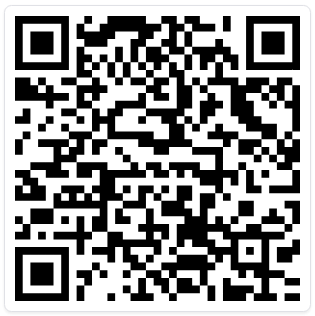
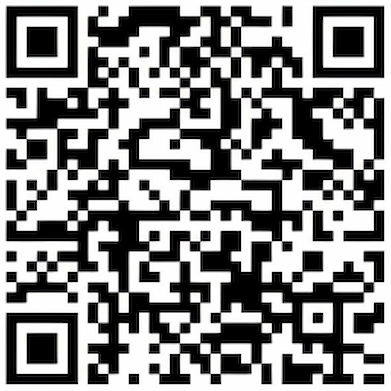
feat: add landing page for grad show

diff --git a/index.html b/index.html
@@ -1,0 +1,278 @@
+<!--
+ Copyright 2026 Yicong Lin
+ 
+ Licensed under the Apache License, Version 2.0 (the "License");
+ you may not use this file except in compliance with the License.
+ You may obtain a copy of the License at
+ 
+     https://www.apache.org/licenses/LICENSE-2.0
+ 
+ Unless required by applicable law or agreed to in writing, software
+ distributed under the License is distributed on an "AS IS" BASIS,
+ WITHOUT WARRANTIES OR CONDITIONS OF ANY KIND, either express or implied.
+ See the License for the specific language governing permissions and
+ limitations under the License.
+-->
+
+<!DOCTYPE html>
+<html lang="en">
+
+<head>
+    <meta charset="UTF-8">
+    <meta name="viewport" content="width=device-width, initial-scale=1.0">
+    <title>AilyCart | Ethan Lin - NIC Grad Show 2026</title>
+    <script src="https://cdn.tailwindcss.com"></script>
+    <link href="https://fonts.googleapis.com/css2?family=Atkinson+Hyperlegible:wght@400;700&display=swap"
+        rel="stylesheet">
+    <script>
+        tailwind.config = {
+            theme: {
+                extend: {
+                    colors: {
+                        'aily-bg': '#FFFFFF',
+                        'aily-primary': '#1A1A1A',
+                        'aily-secondary': '#595959',
+                        'aily-blue': '#1565C0',
+                        'aily-red': '#D32F2F',
+                        'aily-green': '#2E7D32',
+                    },
+                    fontSize: {
+                        'aily-h1': '2rem',
+                        'aily-h2': '1.5rem',
+                        'aily-action': '1.375rem',
+                        'aily-body-lg': '1.25rem',
+                        'aily-body-sm': '1.125rem',
+                    },
+                    fontFamily: {
+                        'atkinson': ['Atkinson Hyperlegible', 'sans-serif'],
+                    },
+                    letterSpacing: {
+                        'tightest': '0.03em',
+                    }
+                }
+            }
+        }
+    </script>
+    <style>
+        body {
+            font-family: 'Atkinson Hyperlegible', sans-serif;
+            font-size: 1.25rem;
+        }
+
+        .grad-glow {
+            box-shadow: 0 0 50px -10px rgba(21, 101, 192, 0.3);
+        }
+
+        .breath-led {
+            animation: pulse-led 2s cubic-bezier(0.4, 0, 0.6, 1) infinite;
+        }
+
+        @keyframes pulse-led {
+
+            0%,
+            100% {
+                opacity: 1;
+                transform: scale(1);
+            }
+
+            50% {
+                opacity: .7;
+                transform: scale(0.95);
+            }
+        }
+    </style>
+</head>
+
+<body class="bg-aily-bg text-aily-primary leading-relaxed">
+
+    <nav class="max-w-7xl mx-auto px-6 py-6 flex justify-between items-center border-b-2 border-slate-50">
+        <div class="flex items-center gap-4">
+            <img src="AilyCartApp/assets/images/logo-notext.png" alt="AilyCart" class="w-12 h-12">
+            <div>
+                <span class="text-aily-h2 font-bold tracking-tightest text-aily-blue">AilyCart</span>
+                <p class="text-[10px] font-black text-aily-secondary uppercase tracking-[0.3em]">NIC Graduate Showcase
+                    2026</p>
+            </div>
+        </div>
+        <div class="flex gap-4">
+            <a href="https://github.com/Yicong-Lin-213/AilyCart"
+                class="bg-aily-primary text-white px-4 py-2 rounded-xl text-sm font-bold hover:bg-aily-blue transition-all">GitHub</a>
+            <a href="https://www.linkedin.com/in/yicong-lin"
+                class="bg-slate-100 text-aily-primary px-4 py-2 rounded-xl text-sm font-bold hover:bg-slate-200 transition-all">LinkedIn</a>
+        </div>
+    </nav>
+
+    <header class="max-w-7xl mx-auto px-6 pt-12 pb-20 grid lg:grid-cols-2 gap-12 items-center">
+        <div class="flex flex-col items-center">
+            <div
+                class="relative z-10 w-full max-w-[360px] border-[4px] border-aily-blue border-slate-50 rounded-[1.2rem] overflow-hidden grad-glow bg-white flex flex-col items-center justify-center">
+
+                <video autoplay muted loop playsinline class="w-full h-auto">
+                    <!-- <source src="ailycart-usage.mp4" type="video/mp4"> -->
+                </video>
+
+                <div class="flex-grow flex items-center justify-center p-6 w-full">
+                    <p class="text-aily-blue text-center font-bold">
+                        Demo Video Under Construction...
+                    </p>
+                </div>
+
+            </div>
+
+            <div class="mt-8 flex gap-4">
+                <div
+                    class="breath-led flex items-center gap-2 bg-white px-4 py-2 rounded-full shadow-md border border-slate-100">
+                    <span class="w-2.5 h-2.5 rounded-full bg-aily-green"></span>
+                    <span class="text-xs font-bold uppercase tracking-tighter">FastAPI</span>
+                </div>
+                <div class="breath-led flex items-center gap-2 bg-white px-4 py-2 rounded-full shadow-md border border-slate-100"
+                    style="animation-delay: 0.3s">
+                    <span class="w-2.5 h-2.5 rounded-full bg-aily-green"></span>
+                    <span class="text-xs font-bold uppercase tracking-tighter">Groq Whisper</span>
+                </div>
+                <div class="breath-led flex items-center gap-2 bg-white px-4 py-2 rounded-full shadow-md border border-slate-100"
+                    style="animation-delay: 0.6s">
+                    <span class="w-2.5 h-2.5 rounded-full bg-aily-green"></span>
+                    <span class="text-xs font-bold uppercase tracking-tighter">Supabase RLS</span>
+                </div>
+            </div>
+        </div>
+        <div class="space-y-8">
+            <div
+                class="inline-block bg-blue-50 text-aily-blue px-4 py-1 rounded-full text-xs font-black uppercase tracking-widest">
+                Capstone Project
+            </div>
+            <h1 class="text-6xl lg:text-8xl font-extrabold leading-[0.9] tracking-tighter text-aily-blue">
+                AilyCart
+            </h1>
+            <h2 class="text-aily-h2 lg:text-4xl font-extrabold mb-6 text-aily-primary">An AI-powered accessibility
+                assistant</h2>
+            <p class="text-aily-body-lg text-aily-secondary font-medium leading-relaxed max-w-xl">
+                Bridging the data gap for seniors using AI to turn physical receipts into audible, high-contrast digital
+                inventory.
+            </p>
+
+            <!--
+            <div class="flex gap-6 border-l-4 border-aily-blue pl-6 py-2">
+                <div>
+                    <p class="text-sm font-black uppercase text-aily-secondary">Precision</p>
+                    <p class="text-xl font-bold italic">99% OCR</p>
+                </div>
+                <div class="w-px bg-slate-200"></div>
+                <div>
+                    <p class="text-sm font-black uppercase text-aily-secondary">Latency</p>
+                    <p class="text-xl font-bold italic">< 500ms</p>
+                </div>
+                <div class="w-px bg-slate-200"></div>
+                <div>
+                    <p class="text-sm font-black uppercase text-aily-secondary">Accessibility</p>
+                    <p class="text-xl font-bold italic">WCAG 2.1 AA</p>
+                </div>
+            </div>
+            -->
+        </div>
+    </header>
+
+    <section class="bg-aily-blue py-16 text-white relative overflow-hidden">
+        <div class="max-w-7xl mx-auto px-6">
+            <div class="grid lg:grid-cols-2 gap-12 items-center">
+                <div class="space-y-8">
+                    <h2 class="text-5xl font-extrabold mb-6">Scan & Experience</h2>
+                    <p class="text-blue-100 mb-8">
+                        Grad Show Live Demo: See how AilyCart handles real-world unstructured data in seconds.
+                    </p>
+                    <div class="space-y-6">
+                        <div class="flex gap-5 items-start">
+                            <span
+                                class="flex-shrink-0 w-10 h-10 rounded-full bg-blue-500 flex items-center justify-center font-bold text-lg shadow-inner">1</span>
+                            <div>
+                                <p class="text-aily-h2 font-bold">Prepare Environment</p>
+                                <p class="text-blue-100 text-aily-body-sm opacity-80 font-medium">Download the <span
+                                        class="font-bold decoration-white">Expo Go</span> app for your OS.</p>
+                            </div>
+                        </div>
+                        <div class="flex gap-5 items-start">
+                            <span
+                                class="flex-shrink-0 w-10 h-10 rounded-full bg-blue-500 flex items-center justify-center font-bold text-lg shadow-inner">2</span>
+                            <div>
+                                <p class="text-aily-h2 font-bold">Launch AilyCart</p>
+                                <p class="text-blue-100 text-aily-body-sm opacity-80 font-medium">Scan the project code
+                                    to load the live demo instantly.</p>
+                            </div>
+                        </div>
+                    </div>
+                </div>
+                <div class="grid grid-cols-1 md:grid-cols-2 gap-8 items-stretch">
+                    <div
+                        class="bg-white p-8 rounded-[2rem] shadow-2xl flex flex-col items-left border border-slate-100">
+                        <p
+                            class="text-aily-blue font-black text-xs uppercase tracking-[0.2em] mb-8 px-4 py-1.5 bg-blue-100 rounded-xl italic">
+                            Step 1: <br />Get Expo Go
+                        </p>
+
+                        <div class="grid grid-cols-2 md:grid-cols-2 gap-4 w-full">
+
+                            <div class="text-center">
+                                <img src="docs/expo-go-ios.png"
+                                    class="w-full aspect-square grayscale hover:grayscale-0 transition-all" alt="iOS">
+                                <span class="text-[10px] font-black text-aily-secondary uppercase">iOS</span>
+                            </div>
+
+                            <div class="hidden md:flex items-start justify-center overflow-hidden">
+                                <img src="AilyCartApp/assets/images/logo-notext.png"
+                                    class="w-full aspect-square opacity-10" alt="AilyCart Watermark">
+                            </div>
+
+                            <div class="hidden md:flex items-start justify-center overflow-hidden">
+                                <img src="AilyCartApp/assets/images/logo-notext.png"
+                                    class="w-full aspect-square opacity-10" alt="AilyCart Watermark">
+                            </div>
+
+                            <div class="text-center">
+                                <img src="docs/expo-go-android.png"
+                                    class="w-full aspect-square grayscale hover:grayscale-0 transition-all"
+                                    alt="Android">
+                                <span class="text-[10px] font-black text-aily-secondary uppercase">Android</span>
+                            </div>
+                        </div>
+                    </div>
+
+                    <div
+                        class="bg-white p-8 rounded-[2rem] shadow-2xl flex flex-col items-left border-4 border-aily-green">
+                        <p
+                            class="text-aily-green font-black text-xs uppercase tracking-[0.2em] mb-8 px-4 py-1.5 bg-green-50 rounded-xl italic">
+                            Step 2: <br />Scan Project</p>
+                        <img src="docs/LiveDemo.png" class="w-full aspect-square mb-2" alt="AilyCart Demo">
+                        <p
+                            class="text-aily-primary font-bold text-[10px] text-center uppercase tracking-widest leading-tight opacity-60">
+                            Scan with iOS Camera or Android Expo Go App</p>
+                    </div>
+                </div>
+            </div>
+        </div>
+    </section>
+
+    <footer class="bg-aily-primary text-white py-12">
+        <div class="max-w-7xl mx-auto px-6 flex flex-row items-center justify-between gap-8">
+            <div class="flex items-center gap-6 flex-shrink-0">
+                <img src="AilyCartApp/assets/images/logo.png" alt="AilyCart Full Logo"
+                    class="w-16 h-16 rounded-xl bg-white p-1">
+            </div>
+
+            <div class="flex flex-col items-end gap-2 min-w-0">
+                <p class="text-slate-500 text-aily-body-sm italic border-b pb-2 border-slate-800">
+                    "Leveraging decades of system sensitivity to build accessible software."
+                </p>
+                <div
+                    class="flex flex-col md:flex-row md:items-center gap-2 md:gap-4 text-xs text-slate-600 whitespace-nowrap">
+                    <span>© 2026 Yicong Lin</span>
+                    <span>
+                        <span class="hidden md:inline">• </span>North Island College Graduate Showcase
+                    </span>
+                </div>
+            </div>
+        </div>
+    </footer>
+</body>
+
+</html>

diff --git a/AilyCartApp/tailwind.config.js b/AilyCartApp/tailwind.config.js
@@ -22,13 +22,6 @@ module.exports = {
   theme: {
     extend: {
       colors: {
-        'primary-text': '#1A1A1A',
-        'secondary': '#595959',
-        'background': '#FFFFFF',
-        'action-btn': '#1565C0',
-        'alert-red': '#D32F2F',
-        'success-green': '#2E7D32',
-
         'aily-bg': '#FFFFFF',
         'aily-primary': '#1A1A1A',
         'aily-secondary': '#595959',

diff --git a/AilyCartApp/app/_layout.tsx b/AilyCartApp/app/_layout.tsx
@@ -87,7 +87,14 @@ export default function RootLayout() {
 
   useEffect(() => {
     if (loaded || error) {
-      SplashScreen.hideAsync();
+      const timer = setTimeout(async () => {
+        try {
+          await SplashScreen.hideAsync();
+        } catch (e) {
+          console.warn(e);
+        }
+      }, 5000);
+      // SplashScreen.hideAsync();
     }
   }, [loaded, error]);
 
